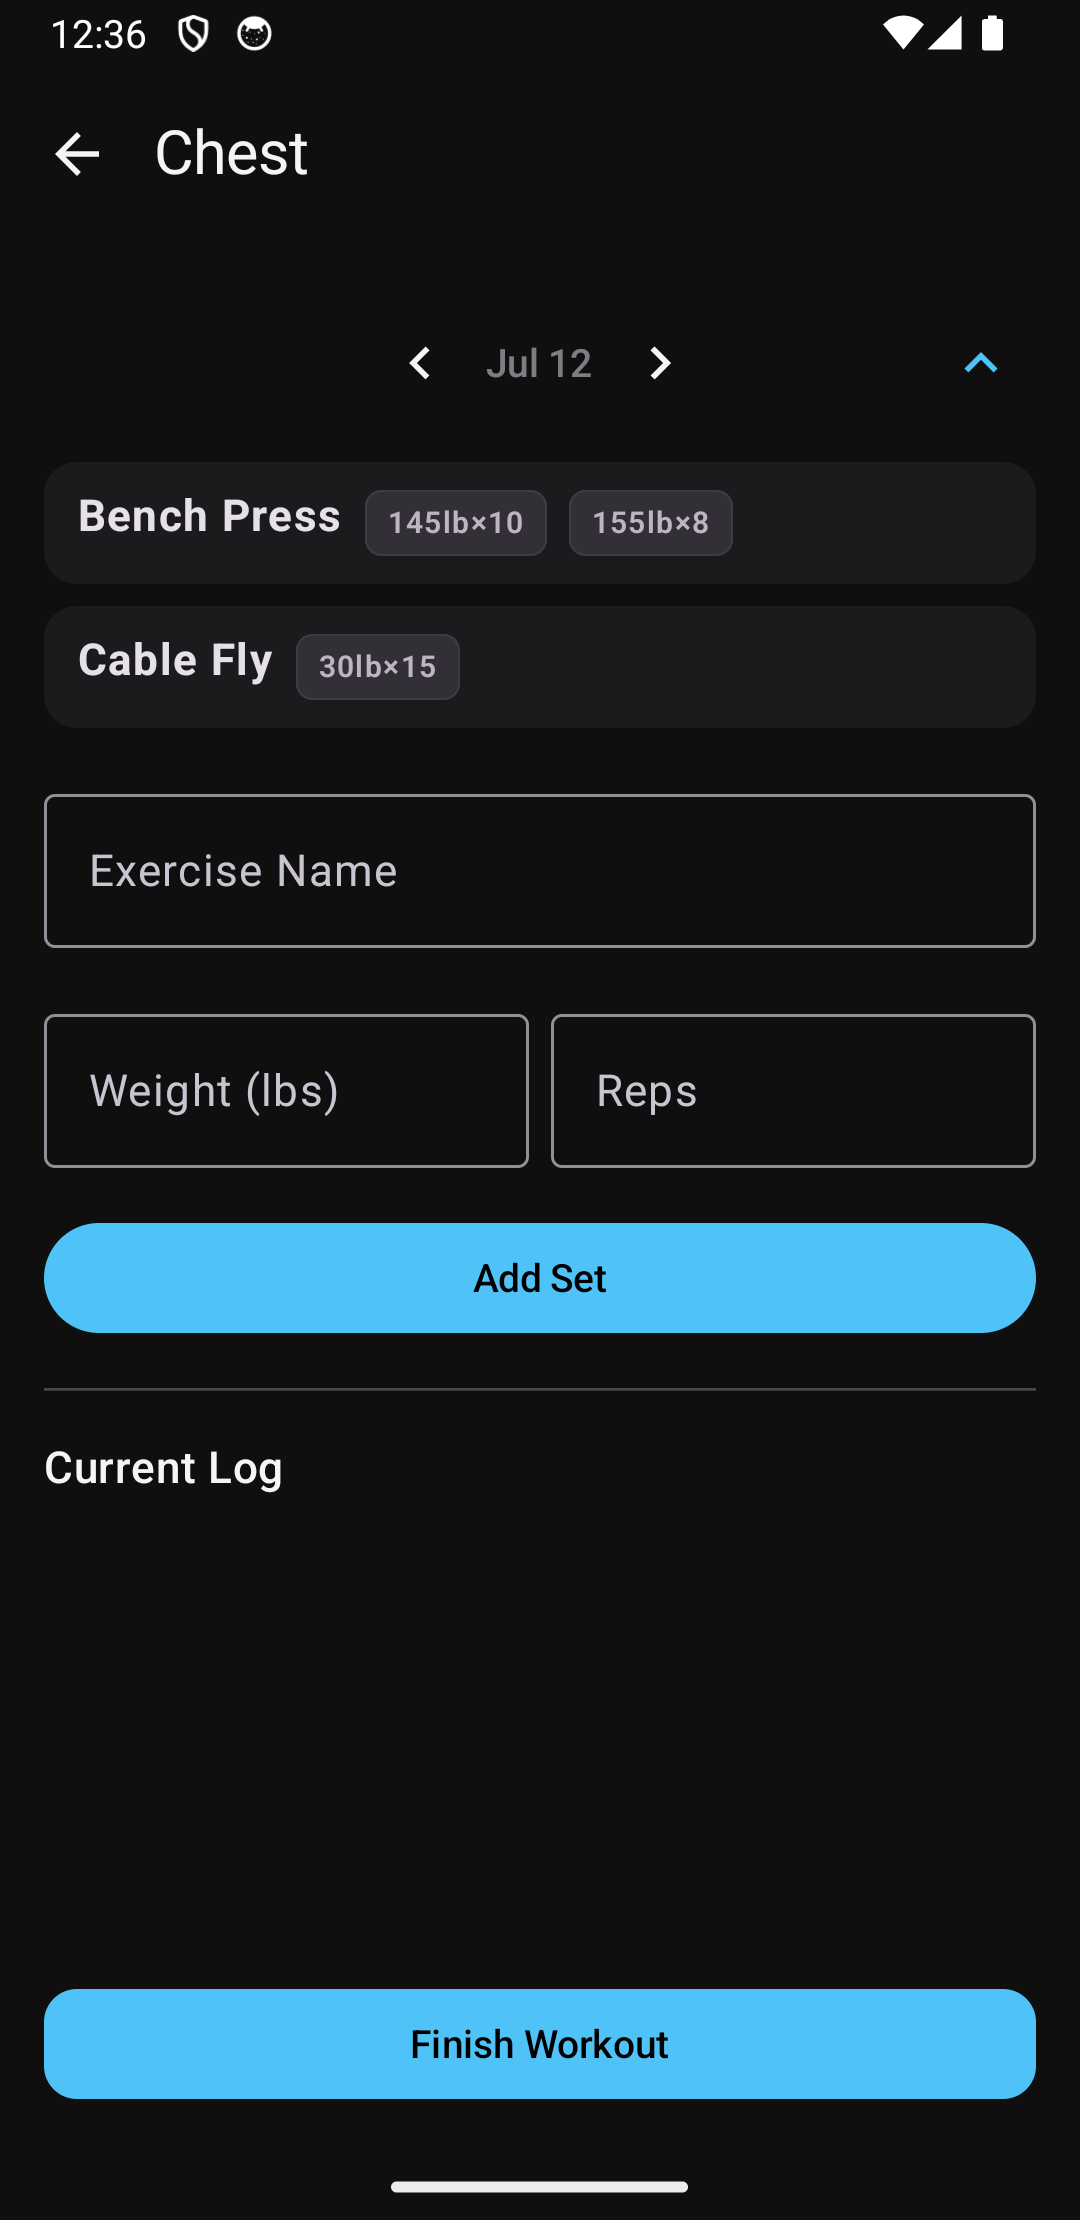
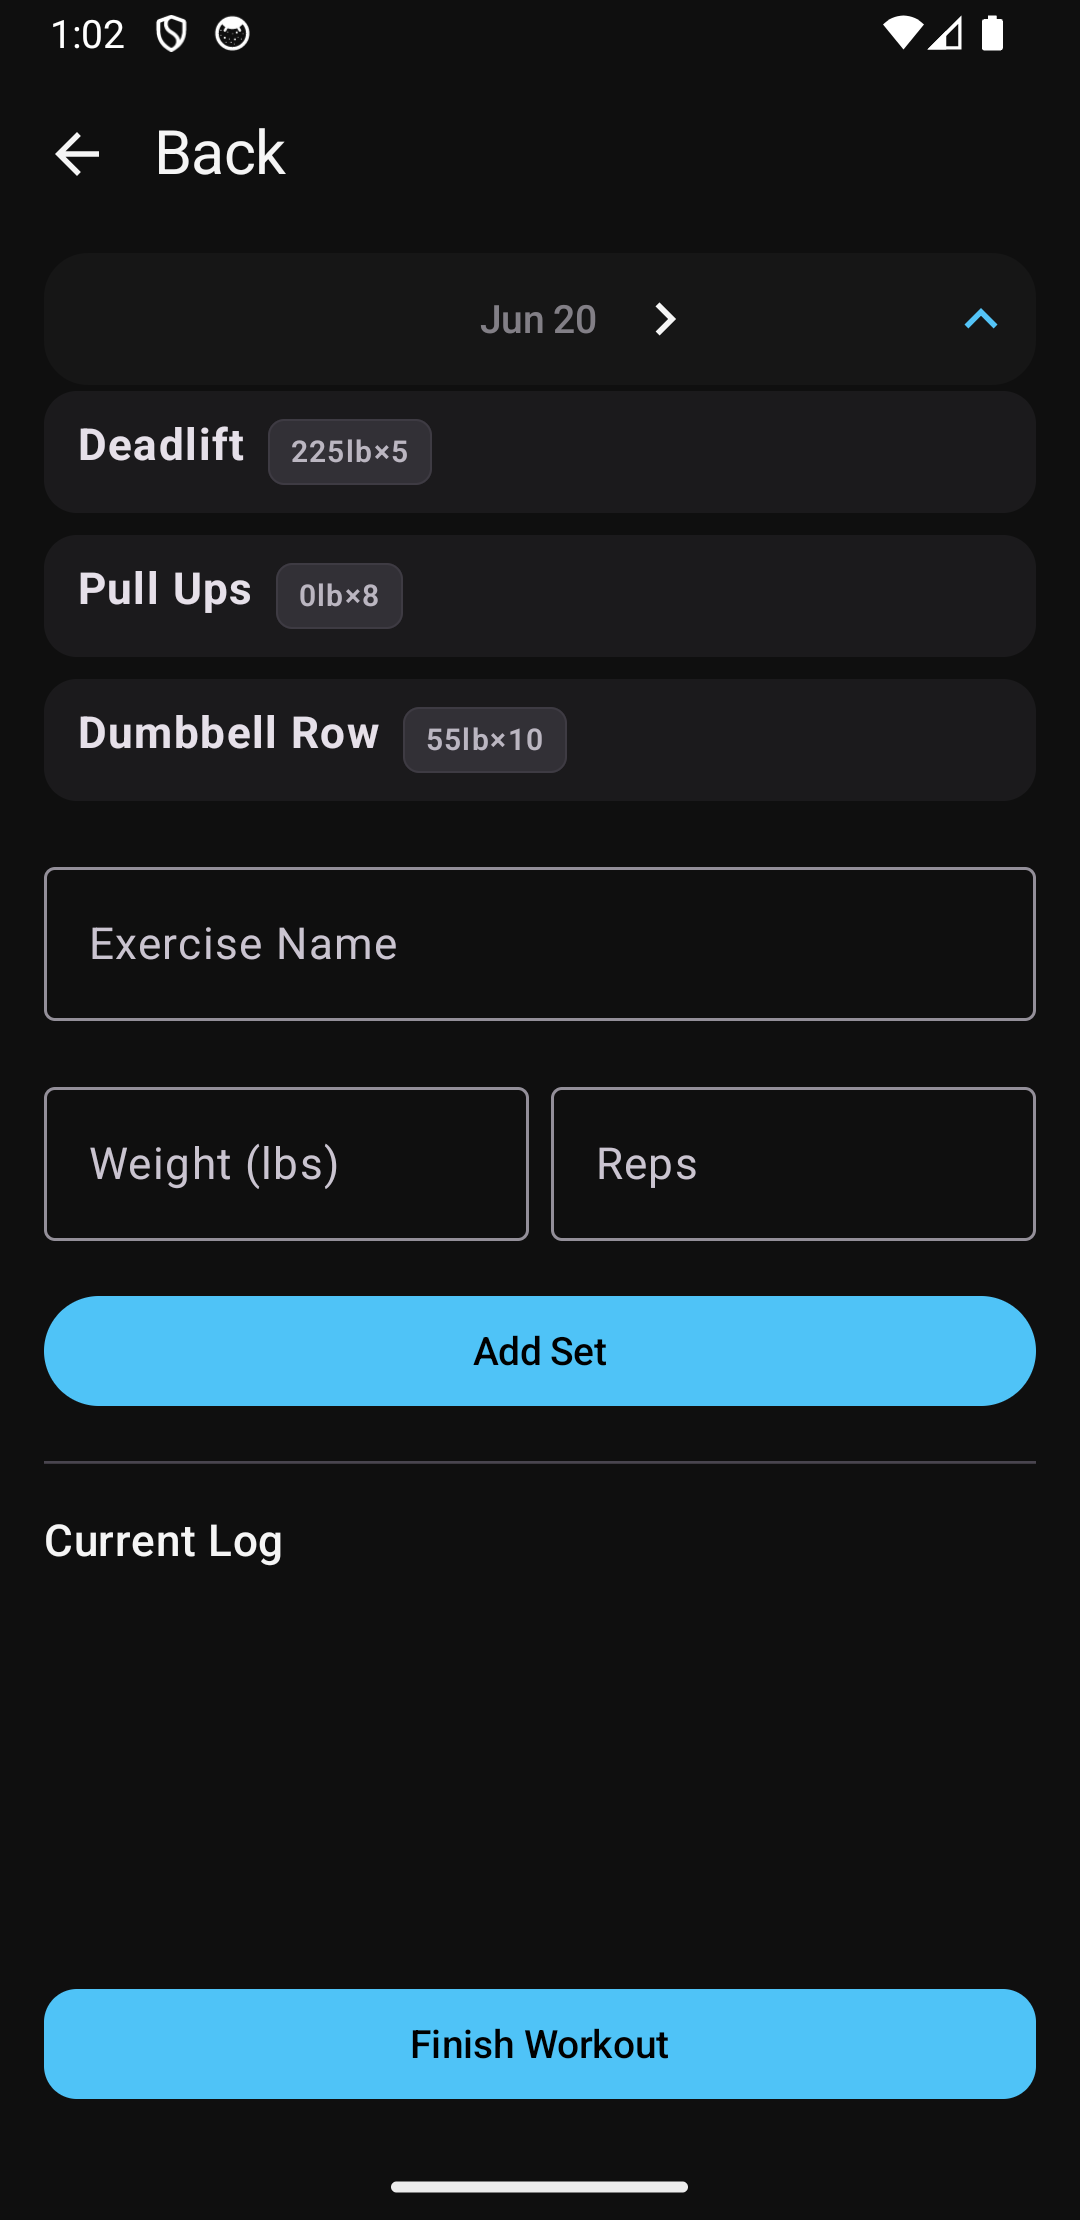
Tighten previous workout header spacing

diff --git a/app/src/main/java/com/example/gymapp/ui/screens/ActiveWorkoutScreen.kt b/app/src/main/java/com/example/gymapp/ui/screens/ActiveWorkoutScreen.kt
@@ -304,18 +304,18 @@ fun ActiveWorkoutScreen(
                 modifier = Modifier
                     .weight(1f)
                     .verticalScroll(scrollState)
-                    .padding(vertical = 16.dp),
+                    .padding(top = 4.dp, bottom = 16.dp),
                 verticalArrangement = Arrangement.spacedBy(16.dp)
             ) {
                 if (previousWorkout != null) {
                     val lastWorkoutDateFormat = remember { SimpleDateFormat("MMM d", Locale.getDefault()) }
-                    Column(verticalArrangement = Arrangement.spacedBy(8.dp)) {
+                    Column(verticalArrangement = Arrangement.spacedBy(2.dp)) {
                         Row(
                             modifier = Modifier
                                 .fillMaxWidth()
                                 .clip(RoundedCornerShape(16.dp))
                                 .clickable { lastTimeExpanded = !lastTimeExpanded }
-                                .padding(horizontal = 8.dp, vertical = 4.dp),
+                                .padding(horizontal = 8.dp),
                             verticalAlignment = Alignment.CenterVertically,
                         ) {
                             Box(modifier = Modifier.weight(1f))
